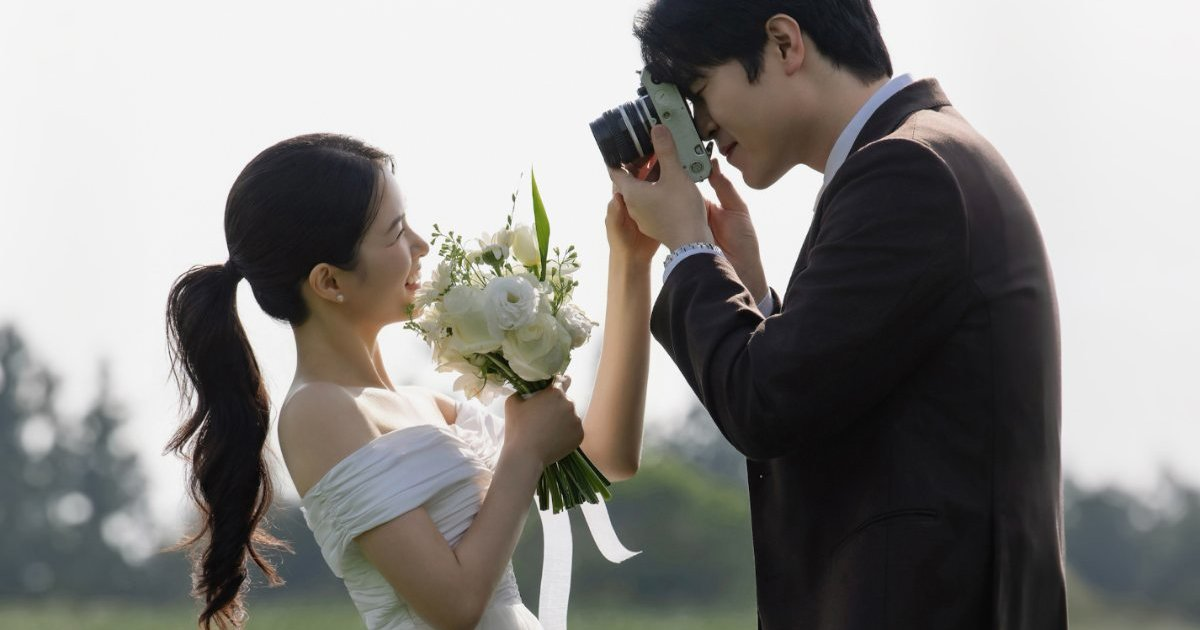
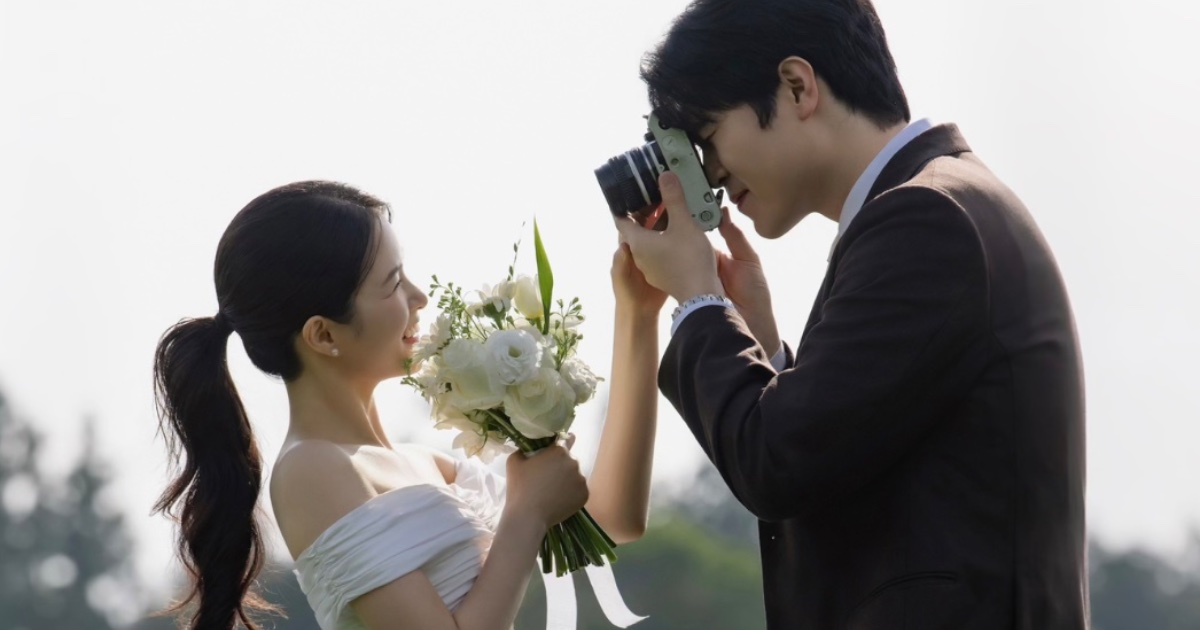
관리자 화면에서 수정 (사진 2장 추가) (파일 1개 정리)

diff --git a/content.js b/content.js
@@ -65,14 +65,14 @@ window.INVITATION = {
 
   /* ── 첫 화면 ──────────────────────────────────────────────── */
   cover: {
-    photo: "photos/cover-20261117212515.jpg",
+    photo: "photos/cover-20261120215623.jpg",
     lettering: "We're getting married",
     label: "Wedding Invitation",
-    focus: "55% 85%",             // 사진이 잘릴 때의 중심점 "가로% 세로%"
-    textY: 5,                    // 필기체 문구: 위아래 위치 (화면 위에서부터 %)
+    focus: "52% 85%",             // 사진이 잘릴 때의 중심점 "가로% 세로%"
+    textY: 7,                    // 필기체 문구: 위아래 위치 (화면 위에서부터 %)
     textX: 0,                    // 필기체 문구: 좌우 위치 (0 = 가운데, 빼기 = 왼쪽, 더하기 = 오른쪽)
     textSize: 100,               // 필기체 문구: 크기 (100 = 기본)
-    labelY: 11,                  // 작은 영문 표시: 위아래 위치
+    labelY: 13,                  // 작은 영문 표시: 위아래 위치
     labelX: 0,                   // 작은 영문 표시: 좌우 위치
     labelSize: 100,              // 작은 영문 표시: 크기 (100 = 기본)
   },
